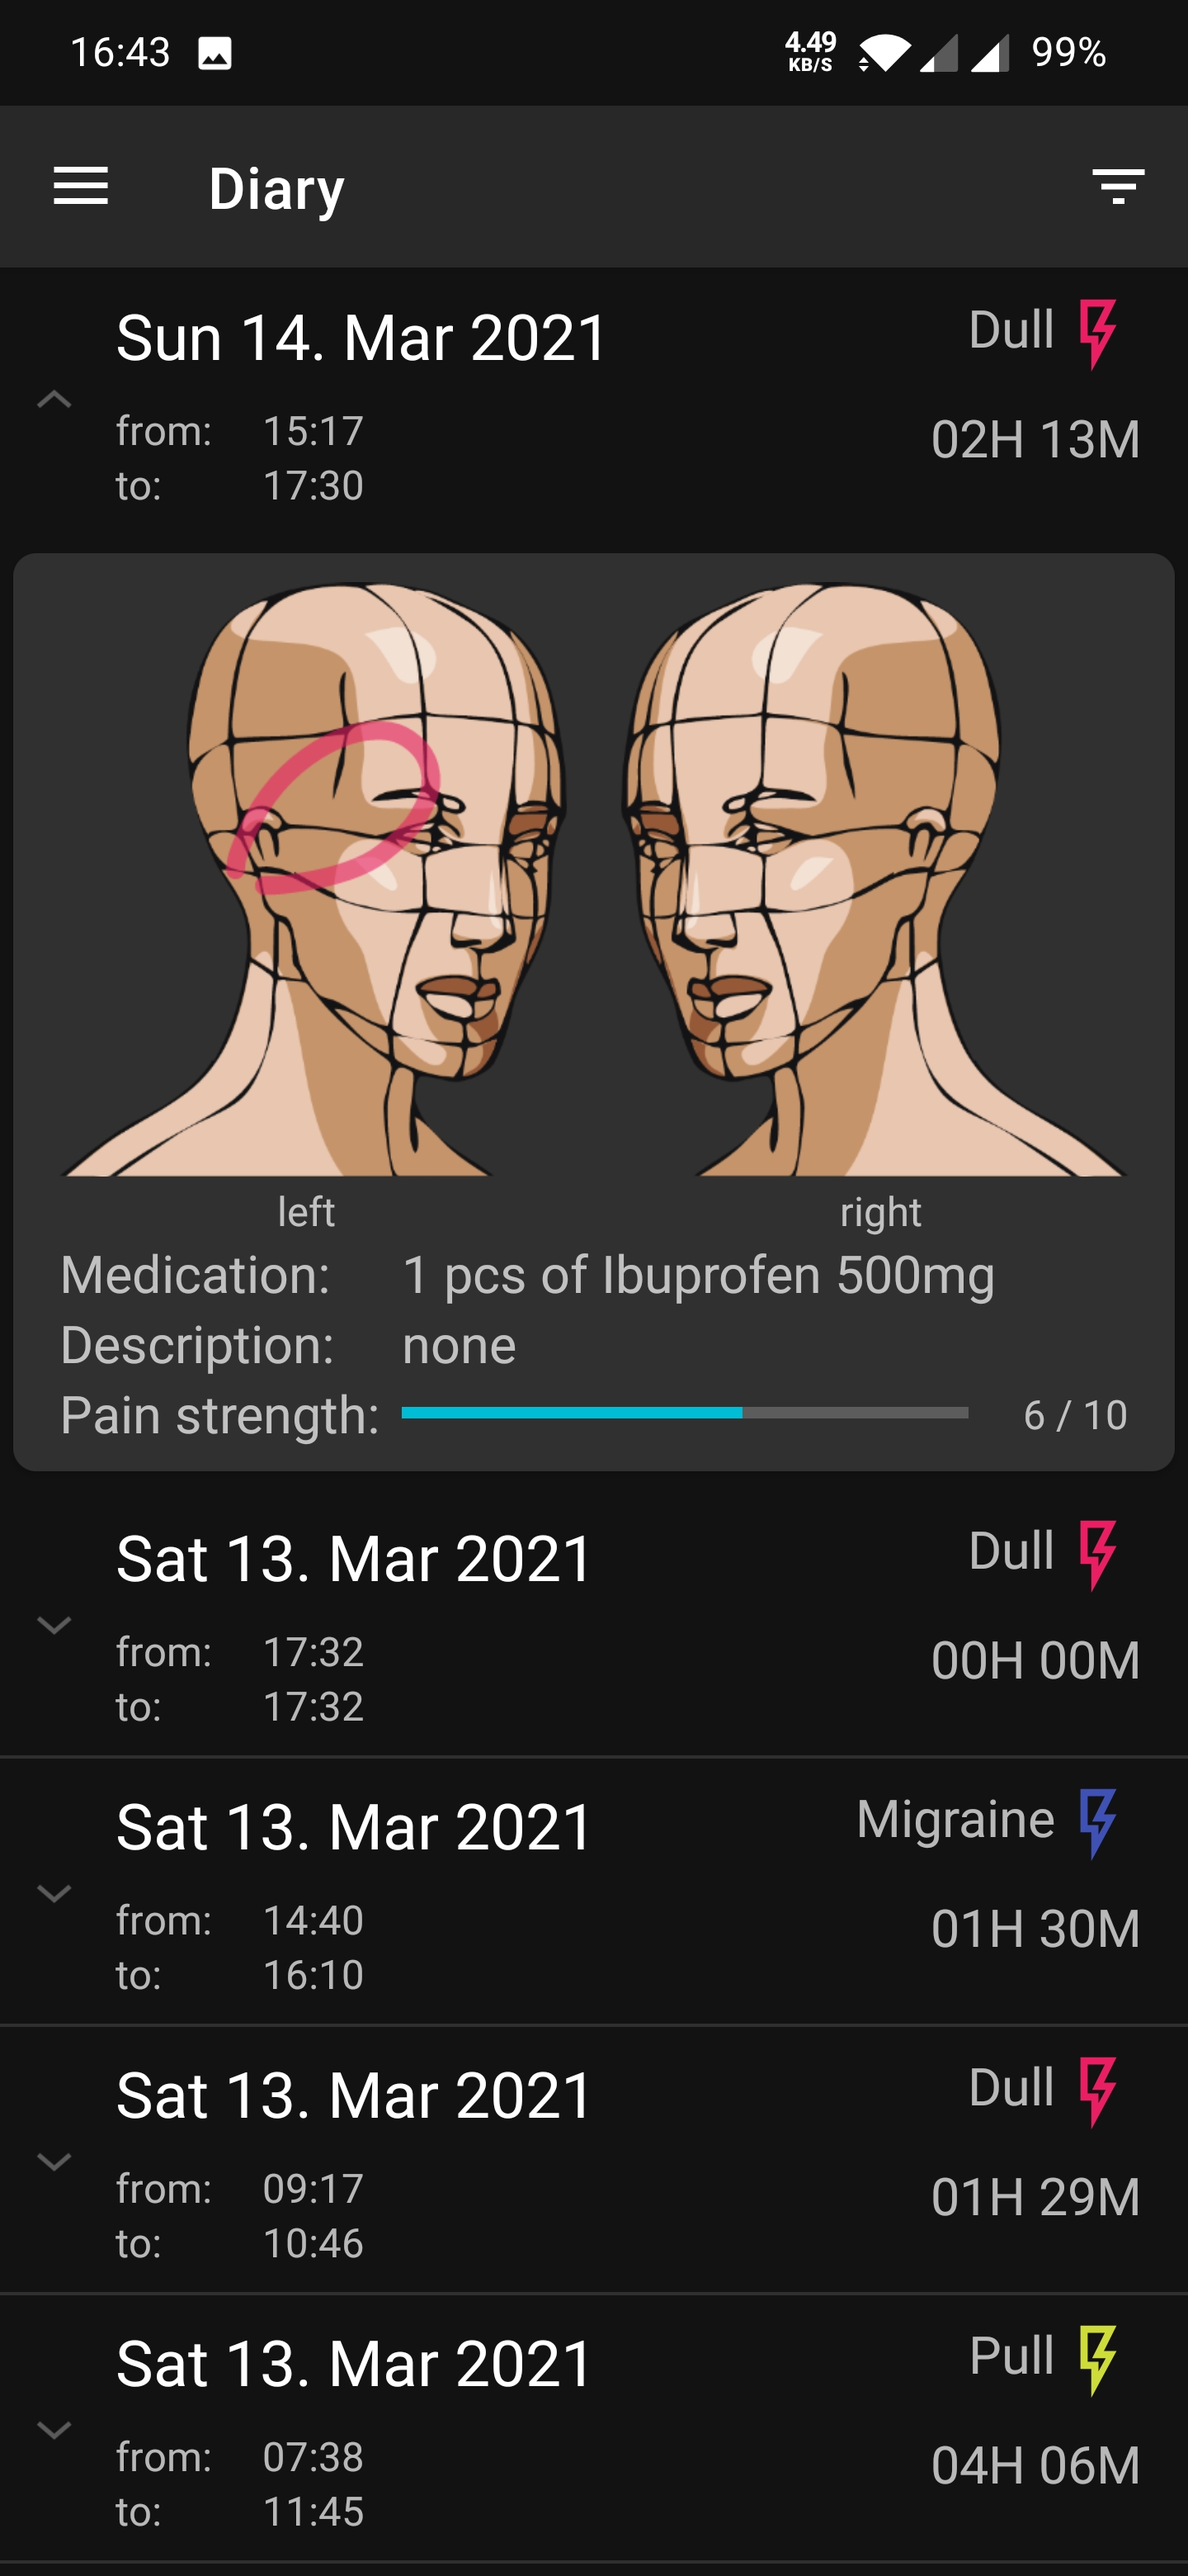
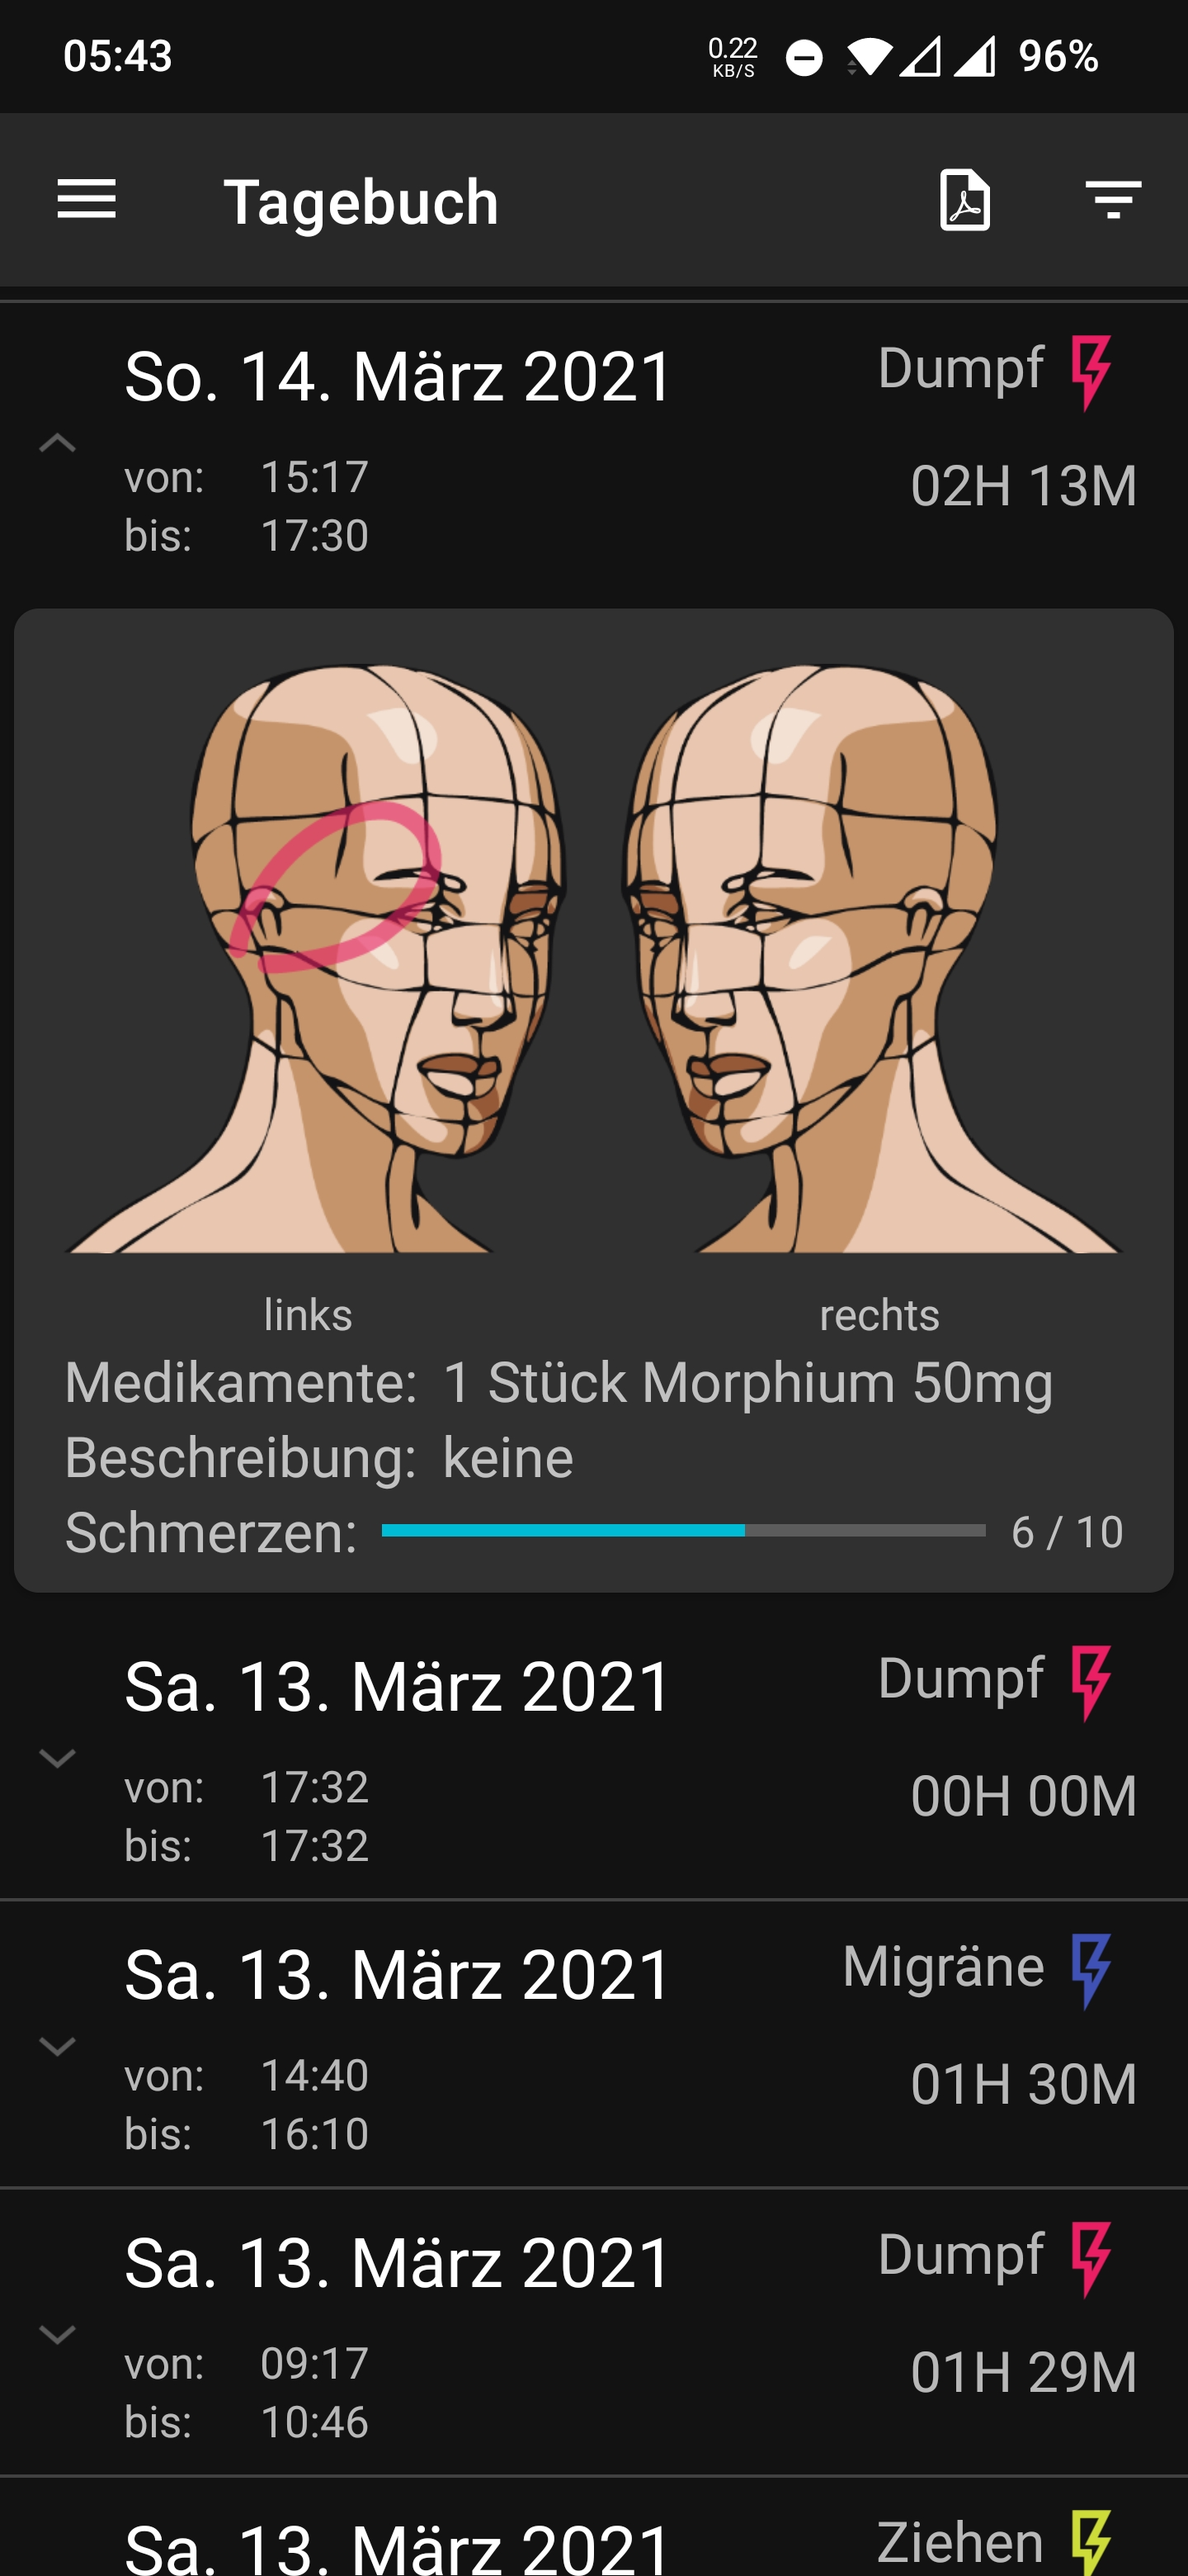
blogpost updated

diff --git a/Headi/blog_post.md b/Headi/blog_post.md
@@ -4,11 +4,25 @@ In den letzten zwei Monaten habe ich neben Arbeit und Familie meine erste Androi
 
 ![](logo.png)
 
-Headi (Headache Diary) ist eine App um Kopfschmerzen zu protokollieren. Da es sich dabei um sehr sensible Daten handelt, werden keine Daten an irgendwelche Cloud-Dienste übertragen. Alle Daten werden nur lokal gespeichert. Headi benötigt auch keine Berechtigungen. Headi bietet eine einfache Analyse der aufgezeichneten Daten. Die Aufzeichnungen können auch als CSV-Datei zur weiteren Analyse der Daten exportieren. Um ein Backup zu erstellen, kann die ganze Datenbank exportiert werden.
+Headi (Headache Diary) ist eine App um Kopfschmerzen zu protokollieren. Da es sich dabei um sehr sensible Daten handelt, werden keine Daten an irgendwelche Cloud-Dienste übertragen. Alle Daten werden nur lokal gespeichert. Headi benötigt auch keinerlei Berechtigungen vom Benutzer. Headi bietet eine einfache Analyse der aufgezeichneten Daten. Die Aufzeichnungen können als CSV-Datei zur weiteren Analyse der Daten oder als PDF Dokument exportiert werden. Um ein Backup zu erstellen, kann die komplette Datenbank gespeichert werden. Es war mit sehr wichtig, die Daten so einfach wie möglich exportieren zu können.
+
+Damit sicher keine Daten im Internet landen, habe ich auch das von Android angebotene automatische Backup `allowBackup` ab der Version `1.10.1-beta` deaktiviert.
+
+```
+<manifest ... >
+    ...
+    <application android:allowBackup="false" ... >
+        ...
+    </application>
+</manifest>
+
+```
 
 Ich habe die App, dank wertvollen Tipps einiger Redakteure, im F-Droid Store veröffentlicht. Allerdings ist die App noch nicht vollständig getestet. Auch gibt es sie erst in deutscher und englischer Sprache.
 
 Es wäre schön, wenn einige von euch die App Installieren würden, und die Funktionen durchtesten. Feedback und Bug Reports können auf der GitHub Projektseite [https://github.com/MrReSc/Headi](https://github.com/MrReSc/Headi) hinterlassen werden.
+
+[<img src="https://fdroid.gitlab.io/artwork/badge/get-it-on.png" height="125" alt="Get it on F-Droid">](https://f-droid.org/packages/com.headi.app/)
 
 ## Beitragen
 Headi ist ein Open-Source-Projekt. Die App steht unter der `MIT` Lizenz. Wenn du auch etwas dazu beitragen wills, würde ich mich sehr darüber freuen. Folgend findest du einige Ideen, was du beitragen könntest:
@@ -17,7 +31,6 @@ Headi ist ein Open-Source-Projekt. Die App steht unter der `MIT` Lizenz. Wenn du
 * Weitere Analysen der Daten in der App wären sinnvoll. Wenn du Ideen hast, teile diese doch mit mir. Wenn du programmieren kannst, kannst du sie implementieren.
 * Es gibt noch einiges Potenzial, um das Design zu verbessern.
 * Wenn du gut zeichnen kannst, wären schönere Bilder für die Regionen auf dem Kopf sehr willkommen.
-* Eine Exportfunktion des Tagebuchs in ein PDF, das für den Arztbesuch genutzt werden kann, wäre auch eine gute Funktion.
 * Es sind auch noch keine Unit-Tests implementiert worden. Wenn du gerne Tests programmierst, würde ich mich über diese freuen.
 * Mit GitHub Actions könnte man CI/CD implementieren. Das wäre auch toll.
 
